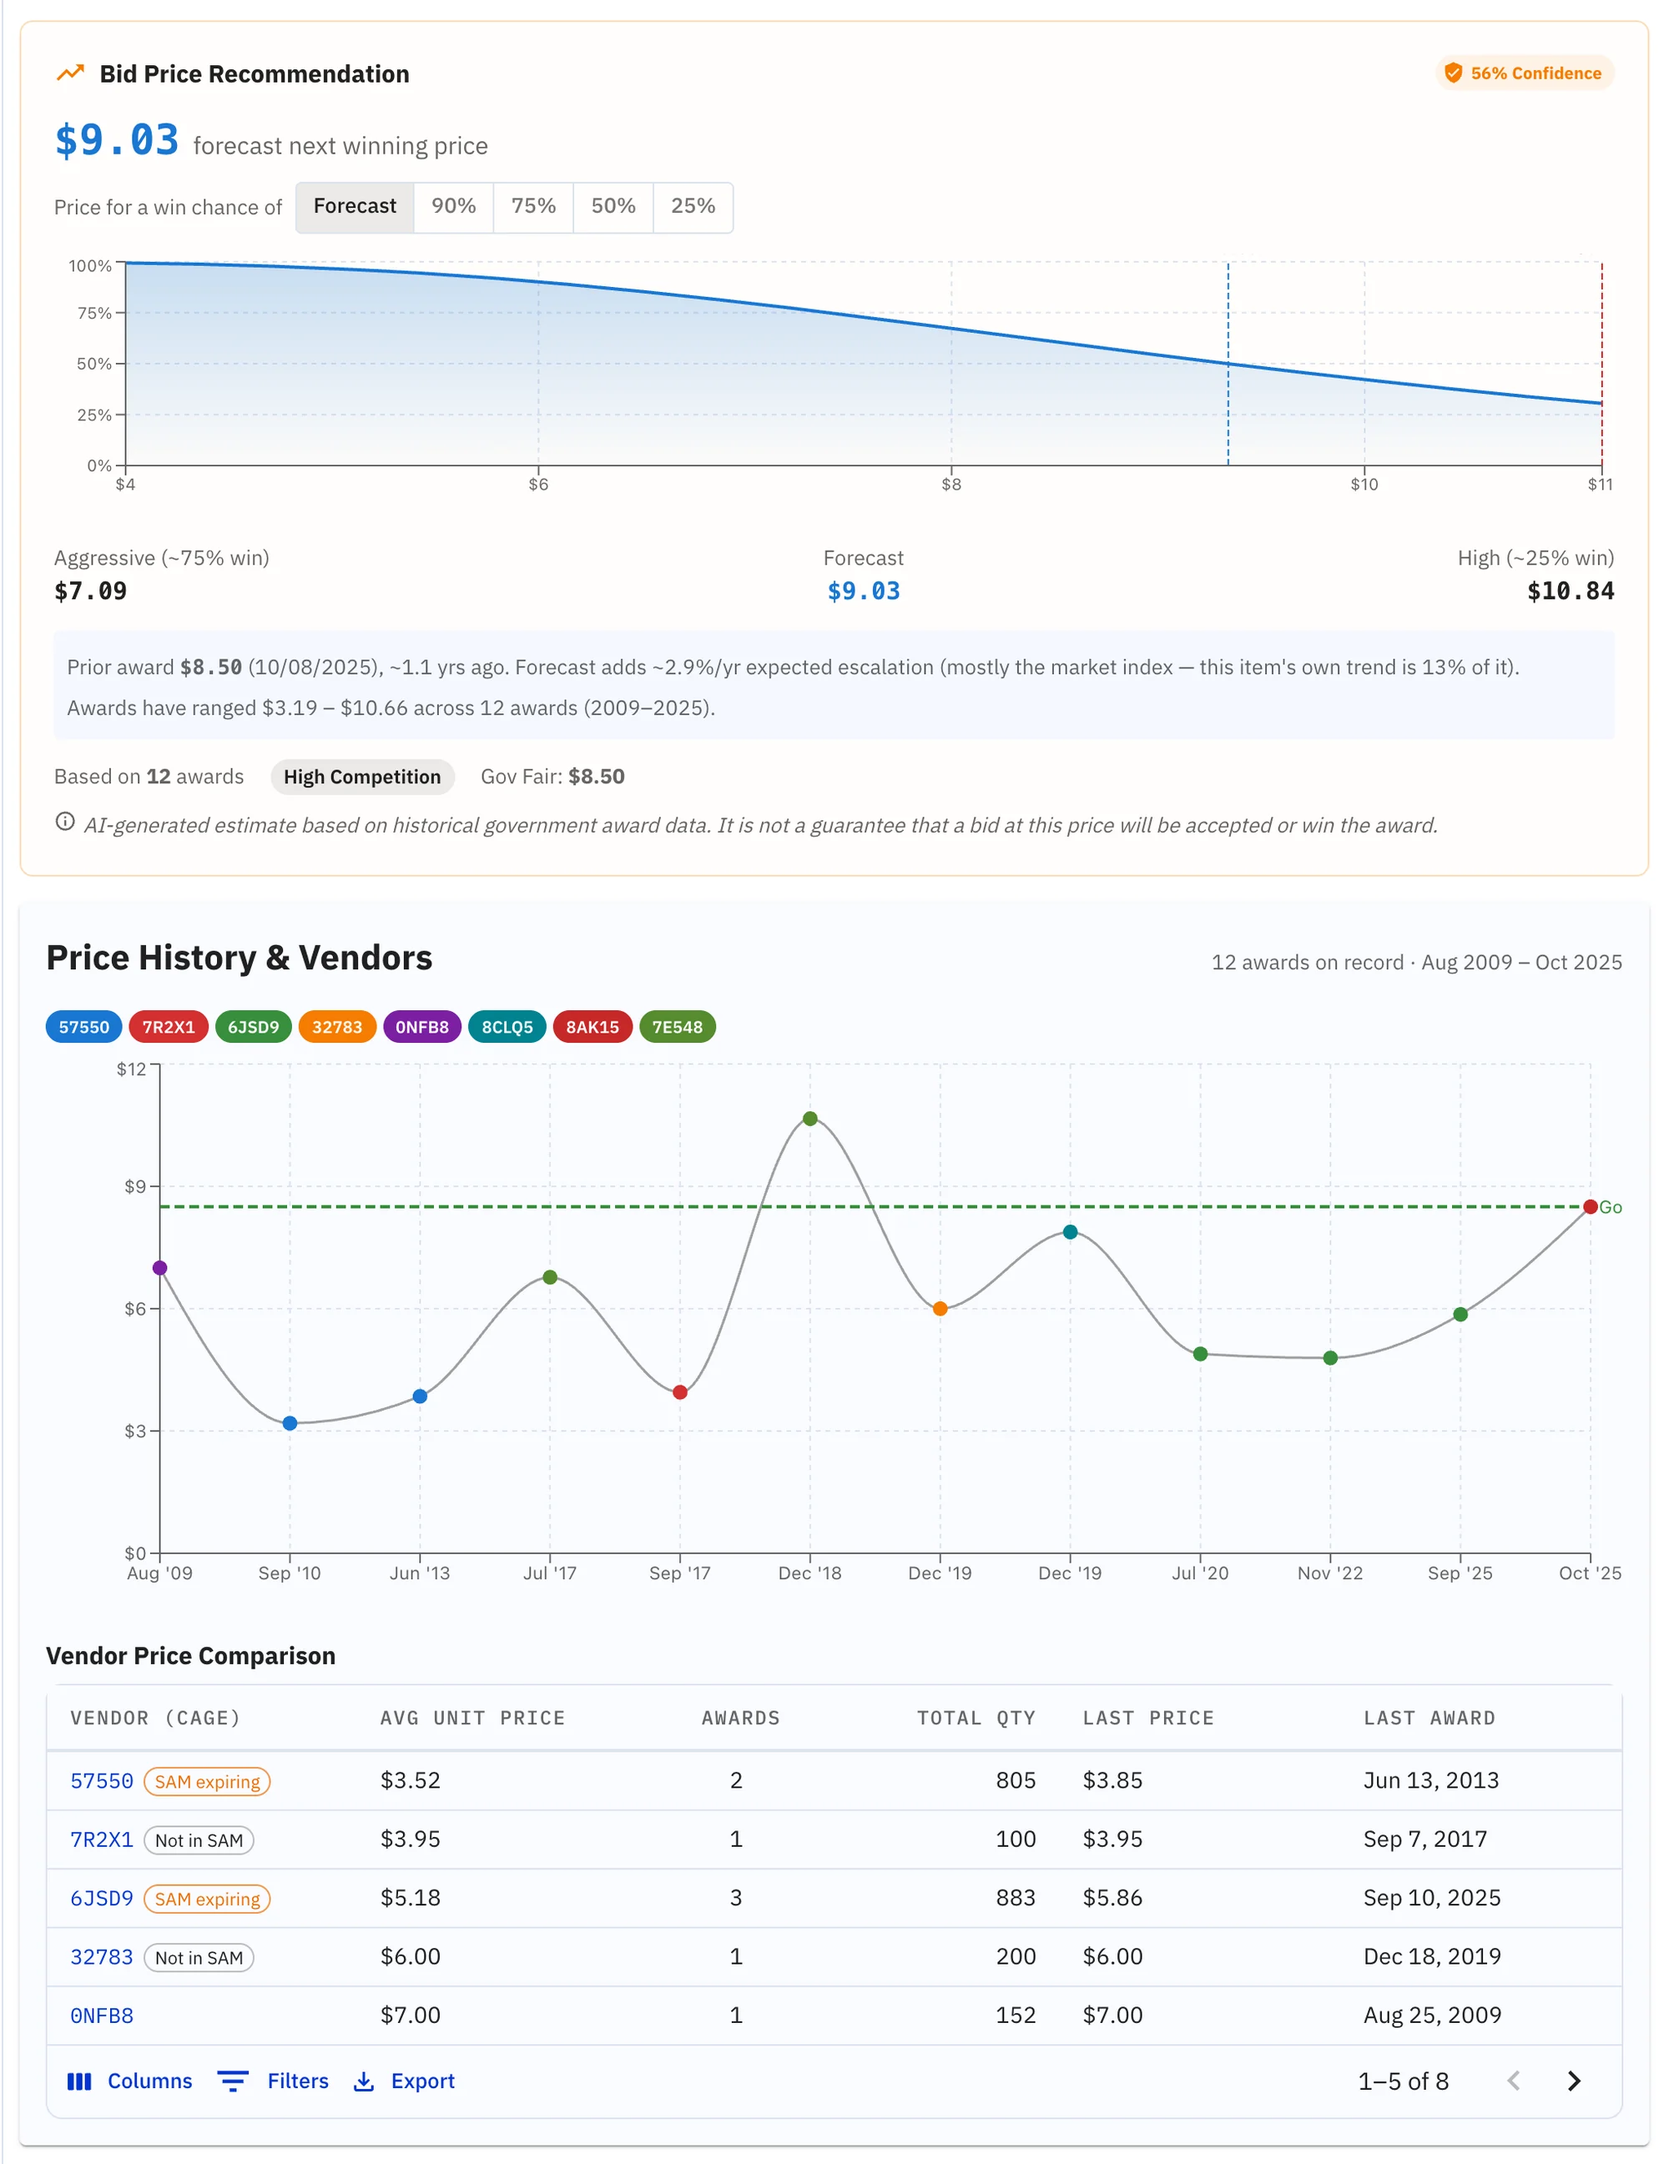
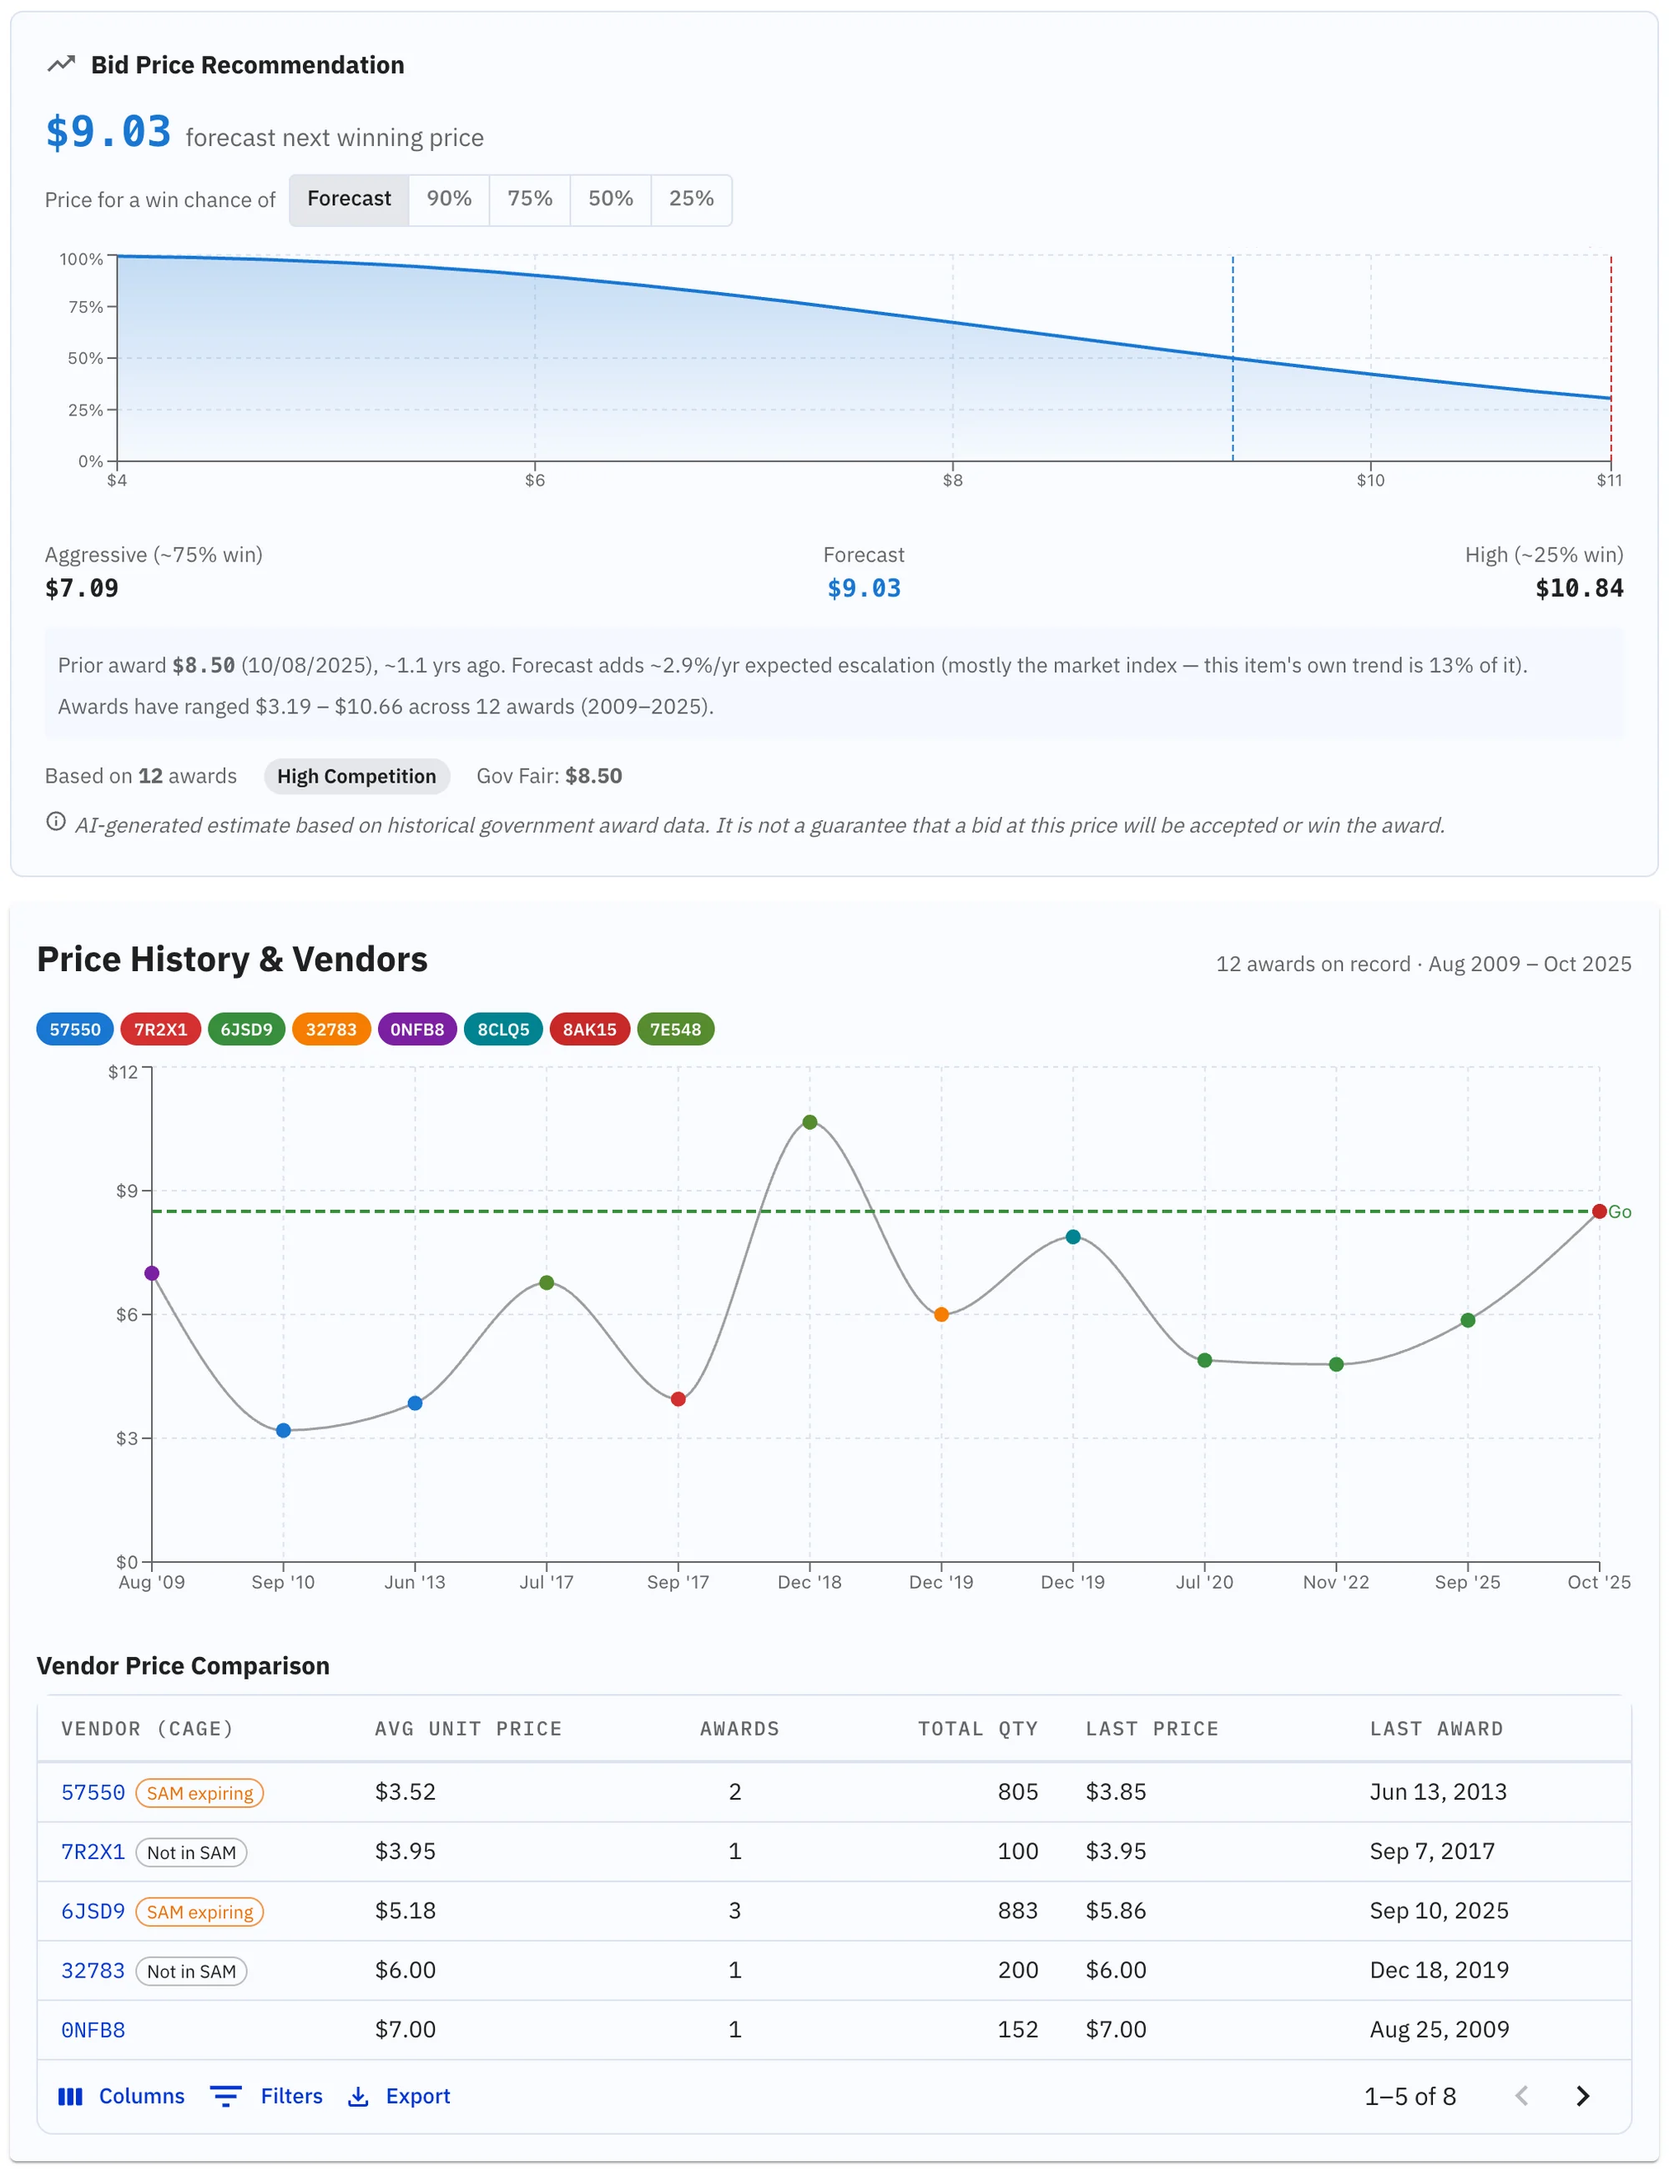
Site: retake the pricing screenshot without the confidence chip (SPAR-218) (#23)
SPAR-218: screen_pricing.webp retaken on the live app without the confidence chip; CLAUDE.md notes how.

diff --git a/index.html b/index.html
@@ -422,7 +422,7 @@
       </ul>
     </div>
     <div class="feature-screen">
-      <img src="screen_pricing.webp" width="2000" height="2594" loading="lazy" alt="Bid price recommendation and price history by vendor for an NSN">
+      <img src="screen_pricing.webp" width="2000" height="2602" loading="lazy" alt="Bid price recommendation and price history by vendor for an NSN">
       <span class="screen-label">Pricing</span>
     </div>
   </div>
@@ -557,7 +557,7 @@
   <div id="t4" class="tab-screen">
     <div class="browser-wrap">
       <div class="browser-bar"><div class="browser-dot"></div><div class="browser-dot"></div><div class="browser-dot"></div><div class="browser-url">data.spartansystems.us/search/010456594</div></div>
-      <img src="screen_pricing.webp" width="2000" height="2594" loading="lazy" alt="Pricing and award history">
+      <img src="screen_pricing.webp" width="2000" height="2602" loading="lazy" alt="Pricing and award history">
     </div>
   </div>
   <div id="t5" class="tab-screen">

diff --git a/CLAUDE.md b/CLAUDE.md
@@ -7,5 +7,5 @@ Static marketing site (home page, privacy policy, terms of service and SMS terms
 - `sms/index.html` is the SMS Alerts Terms (`/sms/`), the public opt-in proof for Twilio toll-free verification, linked from the app's consent box. Its consent text, confirmation and HELP replies must match the app's Notifications section and spartan-api's `SmsProgram`; the `sms/opt-in-*.png` screenshots show the app's opt-in steps.
 - Everything else lives in `index.html`: inline CSS (custom properties like `--navy`, `--blue2`), one inline script (IntersectionObserver reveal animations + screenshot tab switcher). External resources are Google Fonts (Inter), the Google Ads tag (`AW-17734229904`, in the `<head>` of every page, ad personalization off; the policy's cookies section depends on that), and PostHog (same project and token as the app, `cross_subdomain_cookie` so data.spartansystems.us continues the visitor's ID; covered by the policy's PostHog lines).
 - All CTAs point to the product app: Log In to `https://data.spartansystems.us/login`, Sign Up to `/login?mode=signup` (opens Create Account); contact is `mailto:sales@spartansystems.us`.
-- The `screen_*.webp` screenshots are of the `government-data` app and go stale when its UI changes. The 2026-11-05 set was taken as the QA account through a read-only proxy to the prod API, personalized to CAGE 6JSD9, a small fastener supplier. Its name is kept out, but the CAGE shows on the dashboard, the pricing vendor table and Leo's answer, since all three are public award data. The bid board is made up from that CAGE's real open solicitations and DIBBS awards, with closed lines in the automatic "Awarded on DIBBS" state. Leo's answers on the page are real, asked that day and shortened.
+- The `screen_*.webp` screenshots are of the `government-data` app and go stale when its UI changes. The 2026-11-05 set was taken as the QA account through a read-only proxy to the prod API, personalized to CAGE 6JSD9, a small fastener supplier. Its name is kept out, but the CAGE shows on the dashboard, the pricing vendor table and Leo's answer, since all three are public award data. The bid board is made up from that CAGE's real open solicitations and DIBBS awards, with closed lines in the automatic "Awarded on DIBBS" state. Leo's answers on the page are real, asked that day and shortened. `screen_pricing.webp` was retaken on 2026-11-06 (SPAR-218, the confidence chip removed) on the live app as the QA account, same NSN 5306-01-045-6594 and framing. The NSN page doesn't read the user's CAGE, so that shot needs no proxy.
 - Deploy = push to the default branch (Pages serves the branch directly; there is no Actions workflow).
